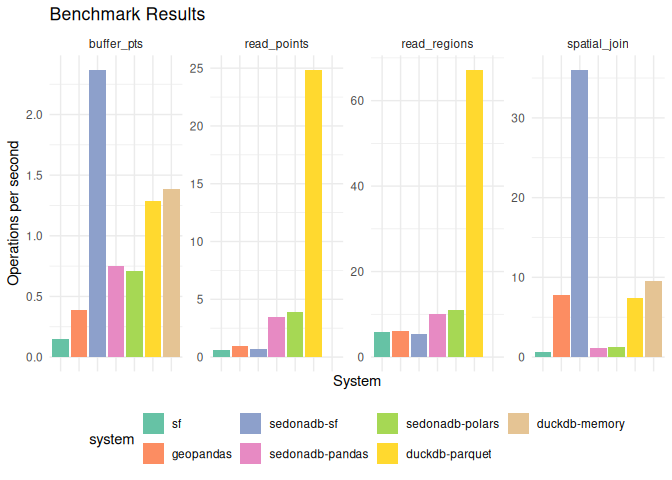
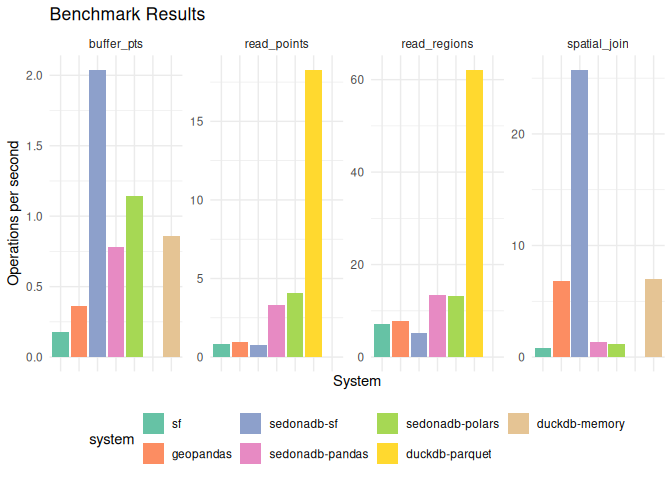
simplify duckdb systems

diff --git a/scripts/bench_duckdb_py.py b/scripts/bench_duckdb_py.py
@@ -4,24 +4,15 @@ import os
 
 print("Starting Python (duckdb) Benchmarks [NZ]...")
 
-# Connect and load spatial extension
 con = duckdb.connect()
 con.install_extension("spatial")
 con.load_extension("spatial")
 
-# --- 0. Data Preparation ---
+# --- Data Prep ---
 if not os.path.exists("nz_points.parquet"):
-    print("Generating nz_points.parquet from GPKG...")
     con.sql("COPY (SELECT * FROM ST_Read('nz_points.gpkg')) TO 'nz_points.parquet' (FORMAT PARQUET)")
-
 if not os.path.exists("nz_regions.parquet"):
-    print("Generating nz_regions.parquet from GPKG...")
     con.sql("COPY (SELECT * FROM ST_Read('nz_regions.gpkg')) TO 'nz_regions.parquet' (FORMAT PARQUET)")
-
-# --- Load into Memory ---
-print("Loading Parquet into in-memory DuckDB tables...")
-con.sql("CREATE OR REPLACE TABLE points AS SELECT * FROM 'nz_points.parquet'")
-con.sql("CREATE OR REPLACE TABLE regions AS SELECT * FROM 'nz_regions.parquet'")
 
 def log_result(system, operation, time_sec):
     ops_per_sec = 1 / time_sec if time_sec > 0 else 0
@@ -32,12 +23,11 @@ def time_func(system, name, query):
     times = []
     for _ in range(5):
         start = time.time()
-        # execute and fetch to ensure evaluation
         con.sql(query).fetchall()
         end = time.time()
         times.append(end - start)
     avg_time = sum(times) / len(times)
-    print(f"{system} - {name}: {avg_time:.4f} s (avg of 5)")
+    print(f"{system} - {name}: {avg_time:.4f} s")
 
     key_map = {
         "Read Points": "read_points",
@@ -48,36 +38,38 @@ def time_func(system, name, query):
     if name in key_map:
         log_result(system, key_map[name], avg_time)
 
-# --- 1. Read Benchmarks ---
+# ---------------------------------------------------------
+# SYSTEM 1: duckdb-parquet (Best Case for Reading)
+# ---------------------------------------------------------
 time_func("duckdb-parquet", "Read Points", "SELECT * FROM 'nz_points.parquet'")
 time_func("duckdb-parquet", "Read Regions", "SELECT * FROM 'nz_regions.parquet'")
 
-# --- 2. Spatial Join Benchmarks ---
+# ---------------------------------------------------------
+# SETUP FOR MEMORY (Best Case Configuration)
+# ---------------------------------------------------------
+print("Preparing In-Memory Data (Optimized)...")
+# 1. Regions + Index
+con.sql("CREATE OR REPLACE TABLE regions AS SELECT * FROM 'nz_regions.parquet'")
+con.sql("CREATE INDEX idx_regions_geom ON regions USING RTREE (geom)")
 
-# System: duckdb-parquet
-query_join_parquet = """
-SELECT p.geom, r.Name
-FROM 'nz_points.parquet' AS p
-LEFT JOIN 'nz_regions.parquet' AS r
-ON ST_Intersects(p.geom, r.geom)
-"""
-time_func("duckdb-parquet", "Spatial Join", query_join_parquet)
+# 2. Points (Standard) + Points (2D Optimized)
+con.sql("CREATE OR REPLACE TABLE points AS SELECT * FROM 'nz_points.parquet'")
+con.sql("CREATE OR REPLACE TABLE points_2d AS SELECT ST_Point2D(ST_X(geom), ST_Y(geom)) AS geom FROM points")
 
-# System: duckdb-memory
-query_join_memory = """
+# ---------------------------------------------------------
+# SYSTEM 2: duckdb-memory (Best Case for Compute)
+# ---------------------------------------------------------
+
+# Spatial Join (Optimized)
+query_join = """
 SELECT p.geom, r.Name
-FROM points AS p
+FROM points_2d AS p
 LEFT JOIN regions AS r
 ON ST_Intersects(p.geom, r.geom)
 """
-time_func("duckdb-memory", "Spatial Join", query_join_memory)
+time_func("duckdb-memory", "Spatial Join", query_join)
 
-# --- 3. Buffer Benchmarks ---
-
-# System: duckdb-parquet
-time_func("duckdb-parquet", "Buffer Points", "SELECT ST_Buffer(geom, 1000) FROM 'nz_points.parquet'")
-
-# System: duckdb-memory
+# Buffer (Standard Memory)
 time_func("duckdb-memory", "Buffer Points", "SELECT ST_Buffer(geom, 1000) FROM points")
 
 print("DuckDB Python Benchmarks Complete.")

diff --git a/README.md b/README.md
@@ -21,6 +21,14 @@ points within the bounding box of New Zealand. The primary operation
 benchmarked is a **Spatial Left Join**: joining the region `Name` to
 each point.
 
+**System Configurations:** \* **In-Memory (sf, geopandas, sedonadb,
+duckdb-memory)**: Data is fully loaded into RAM before the timer starts.
+For DuckDB, this includes converting to native `POINT_2D` types and
+building an R-Tree index on the regions. \* **Streaming
+(duckdb-parquet)**: Data is queried directly from Parquet files on disk
+(Zero-Copy). The timer includes the cost of reading, parsing, and
+joining.
+
 ``` r
 library(sf)
 library(spData)
@@ -48,11 +56,12 @@ ggplot() +
 
 Run on 100,000 points and 16 polygons (Regions).
 
-- **sf / geopandas / sedonadb**: Standard benchmarks via GPKG.
-- **duckdb-gpkg**: DuckDB reading via standard GDAL/OGR (simulates
-  traditional workflow).
-- **duckdb-parquet**: DuckDB reading optimized GeoParquet (simulates
-  modern native workflow).
+- **sf / geopandas / sedona**: Standard benchmarks via GPKG.
+- **duckdb-parquet**: Best-case I/O. Streams geometry directly from
+  Parquet files without loading them.
+- **duckdb-memory**: Best-case Compute. Pre-loads data into RAM,
+  converts to native 2D types, and uses R-Tree indexes. Comparison point
+  for `sf` / `geopandas`.
 
 [Download full results (CSV)](results.csv)
 
@@ -96,18 +105,17 @@ bridges this gap significantly by keeping data in Arrow/WKB format, but
 R’s integration currently appears more seamless for these workloads.
 
 The inclusion of DuckDB allows us to compare “native” execution against
-standard WKB-based approaches:
+standard approaches:
 
-1.  **Serialization Overhead**: `geopandas` and `sf` (reading GPKG) rely
-    on OGR/GDAL, which requires parsing WKB (Well-Known Binary) into
-    in-memory geometry objects. This deserialization step is often the
-    bottleneck.
-2.  **Native Geometry**: `duckdb-parquet` utilizes the spatial
-    extension’s ability to read geometry data directly from Parquet
-    without expensive WKB conversion. We hypothesize this will offer
-    significant speedups over the `duckdb-gpkg` approach, effectively
-    isolating the I/O and serialization cost from the actual spatial
-    join compute time.
+1.  **Zero-Copy (duckdb-parquet)**: Utilizes the spatial extension’s
+    ability to read geometry data directly from Parquet. This isolates
+    the I/O cost and demonstrates the engine’s ability to handle
+    larger-than-memory datasets.
+2.  **Optimized Compute (duckdb-memory)**: By loading data into native
+    2D types (`POINT_2D`) and pre-building an **R-Tree Index**, DuckDB
+    achieves high throughput comparable to specialized in-memory tools.
+    This demonstrates that DuckDB’s performance is highly dependent on
+    using its native internal types rather than generic WKB blobs.
 
 ### Next Steps
 